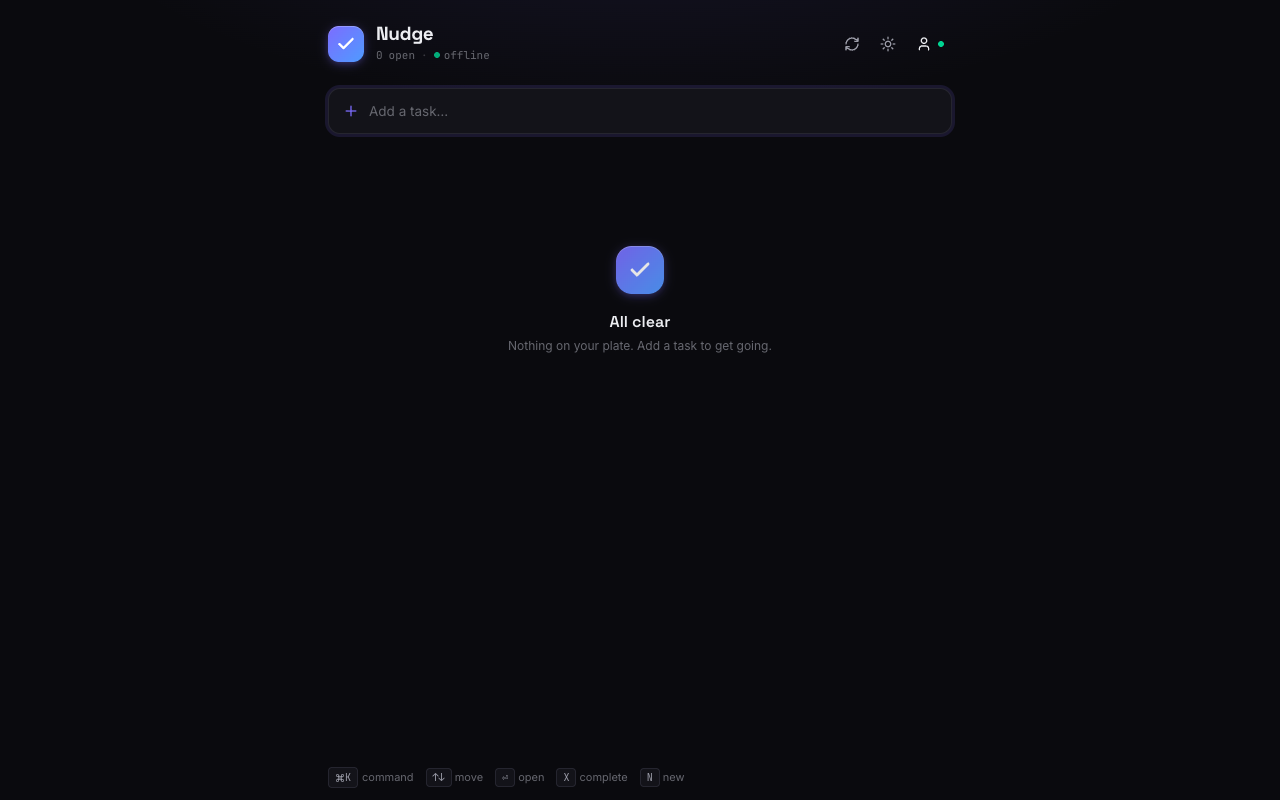
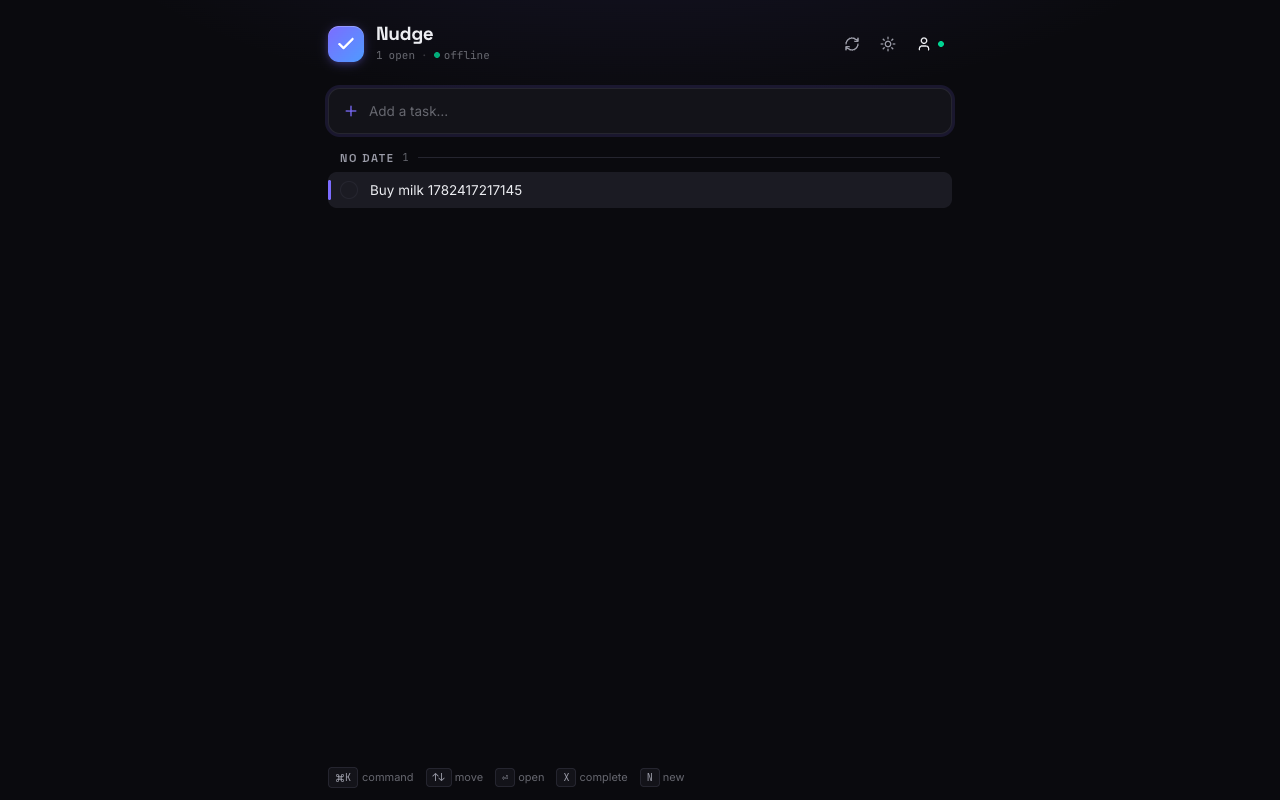
Second UX pass: tag vocabulary, header count, section headers, account menu
AI / tags:
- ai.ts: post-filter output to the 10 valid categories; the 1B model was
  inventing tags like "fix", "appointment", "plumbing" — now only
  errand/health/finance/work/home/shopping/personal/travel/family/fitness pass

Layout:
- Section header is hidden when only one group is visible (avoids a
  "SOMEDAY 6 ——" row that adds weight but no information)
- Completed toggle moved outside the empty-state branch so it stays
  visible even when all active tasks are completed
- Mobile: small "Tap a task to edit · tap ○ to complete" hint below list

Header count:
- Shows "N matching" when a tag filter is active instead of the global "N open"

Filter chip:
- Removed "Filtered by" prefix — chip alone ("health ×") is self-evident
- Added a plain "clear" text link next to the chip

Quick-add:
- Clears the active tag filter when a task is added so the new task is
  immediately visible (not hidden by the filter)

AccountMenu:
- Closes on Escape key
- Closes on window resize (prevents mobile overlay persisting from desktop state)
- External-link icon on "Connect Google Calendar" to signal navigation away
- Checkbox: slightly higher contrast border (text-faint vs border-strong)

EditDialog:
- Replaced "EDIT TASK" header label with ⌘↵ save · Esc close keyboard hints

Changed region(s): [[0.4062, 0.3125, 0.5938, 0.4375], [0.25, 0.1875, 0.4062, 0.25]]

diff --git a/src/App.tsx b/src/App.tsx
@@ -125,6 +125,8 @@ export default function App() {
   };
 
   const handleCreated = (id: string) => {
+    // Clear any active tag filter so the new task is immediately visible
+    if (activeTag) setActiveTag(null);
     window.clearTimeout(lastAddedTimer.current);
     setLastAddedId(id);
     lastAddedTimer.current = window.setTimeout(() => setLastAddedId(null), 1500);
@@ -135,6 +137,11 @@ export default function App() {
   };
 
   const open = todos.filter((t) => !t.completedAt).length;
+  // When a tag filter is active, show matching count instead of total
+  const displayCount = activeTag
+    ? filteredTodos.filter((t) => !t.completedAt).length
+    : open;
+  const countLabel = activeTag ? "matching" : "open";
 
   // Sync status pill
   const syncDot = !online
@@ -165,7 +172,7 @@ export default function App() {
               Nudge
             </h1>
             <p className="mt-1 flex flex-wrap items-center gap-1.5 font-mono text-[11px] text-[var(--color-text-faint)]">
-              <span className="tabular-nums">{open}</span> open
+              <span className="tabular-nums">{displayCount}</span> {countLabel}
               {overdueCount > 0 && (
                 <>
                   <span className="text-[var(--color-text-faint)]/50">·</span>
@@ -210,13 +217,18 @@ export default function App() {
       {/* Active tag filter chip */}
       {activeTag && (
         <div className="mt-2 flex items-center gap-2">
-          <span className="text-xs text-[var(--color-text-faint)]">Filtered by</span>
           <button
             onClick={() => setActiveTag(null)}
-            className="flex items-center gap-1 rounded px-2 py-0.5 text-[11px] font-medium bg-[var(--color-accent)]/10 text-[var(--color-accent)] hover:bg-[var(--color-accent)]/20 transition-colors"
+            className="flex items-center gap-1.5 rounded-full px-3 py-1 text-[11px] font-medium bg-[var(--color-accent)]/10 text-[var(--color-accent)] hover:bg-[var(--color-accent)]/20 transition-colors"
           >
             {activeTag}
             <X className="size-3" />
+          </button>
+          <button
+            onClick={() => setActiveTag(null)}
+            className="text-[11px] text-[var(--color-text-faint)] hover:text-[var(--color-text-dim)] transition-colors"
+          >
+            clear
           </button>
         </div>
       )}
@@ -242,13 +254,16 @@ export default function App() {
           <div className="space-y-6">
             {groups.map((group) => (
               <section key={group.key}>
-                <h2 className="mb-1.5 flex items-center gap-2 px-3 font-display text-[11px] font-semibold uppercase tracking-[0.14em] text-[var(--color-text-dim)]">
-                  {group.label}
-                  <span className="font-mono text-[10px] font-normal tabular-nums text-[var(--color-text-faint)]">
-                    {group.todos.length}
-                  </span>
-                  <span className="h-px flex-1 bg-[var(--color-border)]" />
-                </h2>
+                {/* Hide section header when there's only one visible group — it's redundant */}
+                {groups.length > 1 && (
+                  <h2 className="mb-1.5 flex items-center gap-2 px-3 font-display text-[11px] font-semibold uppercase tracking-[0.14em] text-[var(--color-text-dim)]">
+                    {group.label}
+                    <span className="font-mono text-[10px] font-normal tabular-nums text-[var(--color-text-faint)]">
+                      {group.todos.length}
+                    </span>
+                    <span className="h-px flex-1 bg-[var(--color-border)]" />
+                  </h2>
+                )}
                 <div>
                   {group.todos.map((todo) => {
                     const index = flat.indexOf(todo);
@@ -267,19 +282,24 @@ export default function App() {
                 </div>
               </section>
             ))}
-
-            {/* Completed toggle */}
-            {completedCount > 0 && (
-              <button
-                onClick={() => setShowCompleted((s) => !s)}
-                className="w-full py-1.5 text-center text-xs text-[var(--color-text-faint)] hover:text-[var(--color-text-dim)] transition-colors"
-              >
-                {showCompleted
-                  ? "Hide completed"
-                  : `Show ${completedCount} completed`}
-              </button>
-            )}
           </div>
+        )}
+
+        {/* Completed toggle — always visible when there are completed items, even in empty-state */}
+        {completedCount > 0 && !activeTag && (
+          <button
+            onClick={() => setShowCompleted((s) => !s)}
+            className="mt-4 w-full py-1.5 text-center text-xs text-[var(--color-text-faint)] hover:text-[var(--color-text-dim)] transition-colors"
+          >
+            {showCompleted ? "Hide completed" : `Show ${completedCount} completed`}
+          </button>
+        )}
+
+        {/* Mobile usage hint — shown below the list on first use */}
+        {flat.length > 0 && (
+          <p className="mt-4 text-center text-[11px] text-[var(--color-text-faint)] sm:hidden">
+            Tap a task to edit · tap ○ to complete
+          </p>
         )}
       </main>
 

diff --git a/src/components/AccountMenu.tsx b/src/components/AccountMenu.tsx
@@ -1,5 +1,5 @@
 import { useEffect, useRef, useState } from "react";
-import { Bell, LogOut, User, X, Check, Calendar } from "lucide-react";
+import { Bell, LogOut, User, X, Check, Calendar, ExternalLink } from "lucide-react";
 import type { Session } from "@/lib/session";
 import { requestAndSubscribePush } from "@/lib/notify";
 
@@ -17,16 +17,22 @@ export function AccountMenu({ session }: { session: Session }) {
     }
   }, []);
 
-  // Close on outside click (desktop dropdown)
+  // Close on outside click, Escape, or viewport resize
   useEffect(() => {
     if (!open) return;
-    const handler = (e: MouseEvent) => {
-      if (wrapperRef.current && !wrapperRef.current.contains(e.target as Node)) {
-        setOpen(false);
-      }
+    const onMouse = (e: MouseEvent) => {
+      if (wrapperRef.current && !wrapperRef.current.contains(e.target as Node)) setOpen(false);
     };
-    document.addEventListener("mousedown", handler);
-    return () => document.removeEventListener("mousedown", handler);
+    const onKey = (e: KeyboardEvent) => { if (e.key === "Escape") setOpen(false); };
+    const onResize = () => setOpen(false);
+    document.addEventListener("mousedown", onMouse);
+    document.addEventListener("keydown", onKey);
+    window.addEventListener("resize", onResize);
+    return () => {
+      document.removeEventListener("mousedown", onMouse);
+      document.removeEventListener("keydown", onKey);
+      window.removeEventListener("resize", onResize);
+    };
   }, [open]);
 
   return (
@@ -140,7 +146,9 @@ function SignedIn({ session, onClose }: { session: Session; onClose: () => void 
             href="/api/auth/google"
             className="flex w-full items-center gap-2 rounded-lg border border-[var(--color-border)] px-3 py-2.5 text-sm text-[var(--color-text-dim)] hover:border-[var(--color-border-strong)] hover:text-[var(--color-text)]"
           >
-            <Calendar className="size-4" /> Connect Google Calendar
+            <Calendar className="size-4" />
+            Connect Google Calendar
+            <ExternalLink className="ml-auto size-3 opacity-40" />
           </a>
         )
       )}

diff --git a/src/components/EditDialog.tsx b/src/components/EditDialog.tsx
@@ -96,9 +96,13 @@ export function EditDialog({ todo, onClose, onDeleted }: Props) {
           "rounded-t-2xl sm:max-w-lg sm:rounded-2xl",
         )}
       >
-        <div className="flex items-center justify-between border-b border-[var(--color-border)] px-4 py-3">
-          <span className="font-display text-xs font-semibold uppercase tracking-[0.12em] text-[var(--color-text-dim)]">
-            Edit task
+        <div className="flex items-center justify-between border-b border-[var(--color-border)] px-4 py-2.5">
+          <span className="text-[11px] text-[var(--color-text-faint)]">
+            <kbd className="rounded border border-[var(--color-border)] bg-[var(--color-surface-2)] px-1 py-0.5 font-mono text-[10px]">⌘↵</kbd>
+            {" "}save
+            <span className="mx-1.5 opacity-40">·</span>
+            <kbd className="rounded border border-[var(--color-border)] bg-[var(--color-surface-2)] px-1 py-0.5 font-mono text-[10px]">Esc</kbd>
+            {" "}close
           </span>
           <button
             onClick={onClose}

diff --git a/worker/ai.ts b/worker/ai.ts
@@ -28,11 +28,12 @@ export async function suggestTags(
       max_tokens: 20,
     })) as AiTextResult;
 
+    const VALID = new Set(["errand", "health", "finance", "work", "home", "shopping", "personal", "travel", "family", "fitness"]);
     const text = result.response ?? "";
     return text
       .split(",")
       .map((t) => t.trim().toLowerCase().replace(/[^a-z]/g, ""))
-      .filter((t) => t.length > 1 && t.length < 20)
+      .filter((t) => VALID.has(t))
       .slice(0, 3);
   } catch (e) {
     console.warn("AI tag suggestion failed:", e);

diff --git a/src/components/Checkbox.tsx b/src/components/Checkbox.tsx
@@ -23,7 +23,7 @@ export function Checkbox({ checked, onToggle, className }: Props) {
         "after:absolute after:inset-[-13px] after:content-['']",
         checked
           ? "border-[var(--color-accent)] bg-[var(--color-accent)] text-[var(--color-accent-fg)]"
-          : "border-[var(--color-border-strong)] hover:border-[var(--color-text-dim)]",
+          : "border-[var(--color-text-faint)] hover:border-[var(--color-text-dim)]",
         className,
       )}
     >